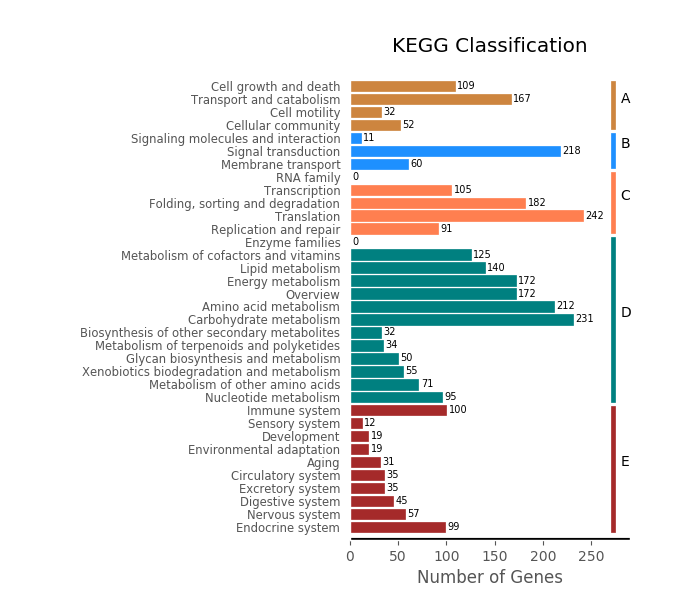
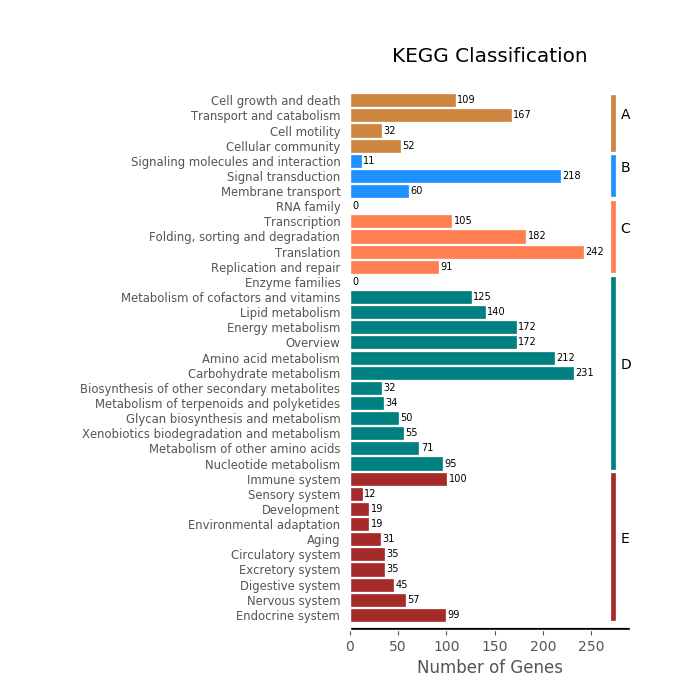
figsize

diff --git a/plot/kegg_classification/kegg_classification.py b/plot/kegg_classification/kegg_classification.py
@@ -95,7 +95,7 @@ def main():
 
     args=parser.parse_args()
 
-    fig = plt.figure(figsize=(7,6))
+    fig = plt.figure(figsize=(7,7))
     [ax_x, ax_y, ax_w, ax_h] = [0.5,0.1,0.4,0.8]   #[0.05,0.07,0.07,0.66] 
     ax = fig.add_axes([ax_x, ax_y, ax_w, ax_h], frame_on=True, axisbg = 'white')
 
